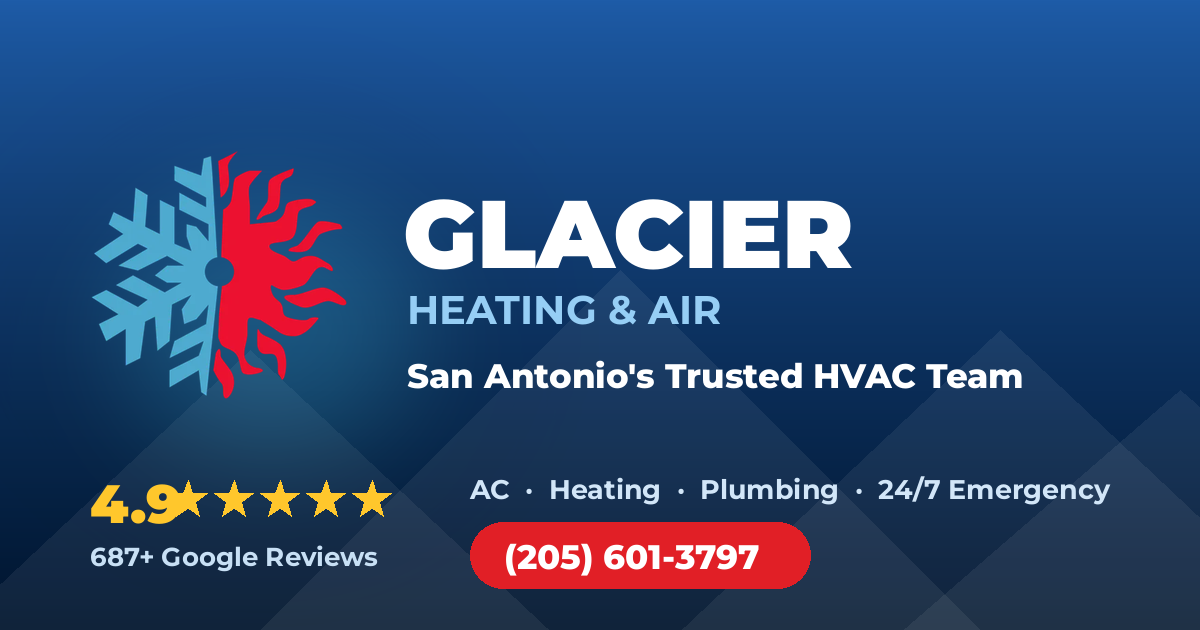
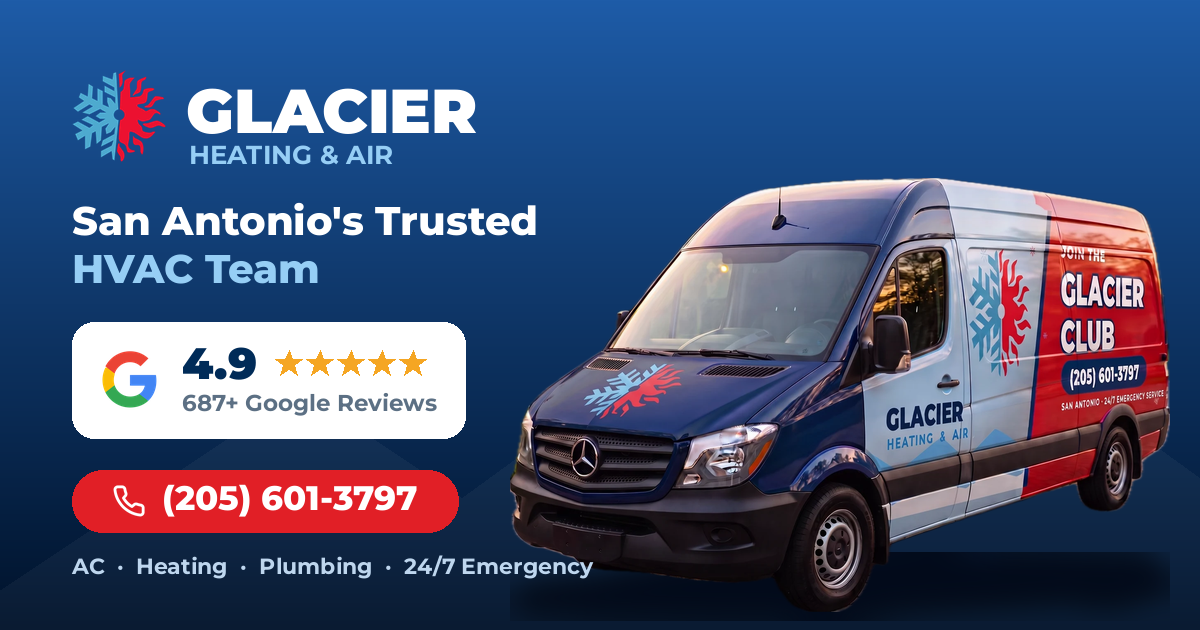
Redesign OG share card: van hero, real Google G badge, aligned layout
Replace the crooked rating strip with a proper white Google-review badge
(rasterized 4-color G + 4.9 + gold stars + review count), add the photoreal
wrapped van as the hero with a soft ground shadow, crisp brand wordmark,
tagline, phone pill with real phone icon, and services line — all on a
consistent left margin for a clean, agency-grade share preview.

diff --git a/glacier-site/scratchpad/googleg.html b/glacier-site/scratchpad/googleg.html
@@ -1,0 +1,7 @@
+<!doctype html><html><head><style>html,body{margin:0;background:transparent}</style></head>
+<body><svg id="g" width="400" height="400" viewBox="0 0 48 48" xmlns="http://www.w3.org/2000/svg">
+<path fill="#4285F4" d="M45.12 24.5c0-1.56-.14-3.06-.4-4.5H24v8.51h11.84c-.51 2.75-2.06 5.08-4.39 6.64v5.52h7.11c4.16-3.83 6.56-9.47 6.56-16.17z"/>
+<path fill="#34A853" d="M24 46c5.94 0 10.92-1.97 14.56-5.33l-7.11-5.52c-1.97 1.32-4.49 2.1-7.45 2.1-5.73 0-10.58-3.87-12.31-9.07H4.34v5.7C7.96 41.07 15.4 46 24 46z"/>
+<path fill="#FBBC05" d="M11.69 28.18C11.25 26.86 11 25.45 11 24s.25-2.86.69-4.18v-5.7H4.34C2.85 17.09 2 20.45 2 24s.85 6.91 2.34 9.88l7.35-5.7z"/>
+<path fill="#EA4335" d="M24 9.75c3.23 0 6.13 1.11 8.41 3.29l6.31-6.31C34.91 3.18 29.93 1 24 1 15.4 1 7.96 5.93 4.34 13.12l7.35 5.7C13.42 13.62 18.27 9.75 24 9.75z"/>
+</svg></body></html>

diff --git a/glacier-site/scratchpad/phone.html b/glacier-site/scratchpad/phone.html
@@ -1,0 +1,4 @@
+<!doctype html><html><head><style>html,body{margin:0;background:transparent}</style></head>
+<body><svg id="p" width="240" height="240" viewBox="0 0 24 24" fill="none" stroke="#ffffff" stroke-width="2" stroke-linecap="round" stroke-linejoin="round" xmlns="http://www.w3.org/2000/svg">
+<path d="M22 16.9v3a2 2 0 0 1-2.2 2 19.8 19.8 0 0 1-8.6-3.1 19.5 19.5 0 0 1-6-6 19.8 19.8 0 0 1-3.1-8.7A2 2 0 0 1 4.1 2h3a2 2 0 0 1 2 1.7c.1.9.4 1.8.7 2.7a2 2 0 0 1-.5 2.1L8.1 9.9a16 16 0 0 0 6 6l1.4-1.2a2 2 0 0 1 2.1-.5c.9.3 1.8.6 2.7.7a2 2 0 0 1 1.7 2z"/>
+</svg></body></html>

diff --git a/glacier-site/scratchpad/make_og.py b/glacier-site/scratchpad/make_og.py
@@ -1,79 +1,109 @@
-from PIL import Image, ImageDraw, ImageFont
+from PIL import Image, ImageDraw, ImageFont, ImageFilter
 import math
 
 W, H = 1200, 630
 FT = "/tmp/mfonts"
 def f(name, sz): return ImageFont.truetype(f"{FT}/Montserrat-{name}.ttf", sz)
 
-# --- vertical navy gradient background (ice-500-ish top -> deep navy bottom)
-top = (30, 92, 168)     # icy blue
-bot = (0, 20, 45)       # deep navy
-img = Image.new("RGB", (W, H), bot)
-px = img.load()
+# ---------- background: smooth icy-navy gradient ----------
+top = (30, 92, 168); bot = (0, 18, 42)
+img = Image.new("RGB", (W, H), bot); px = img.load()
 for y in range(H):
-    t = y / (H - 1)
-    # ease toward navy
-    e = t ** 0.85
-    r = int(top[0] + (bot[0]-top[0]) * e)
-    g = int(top[1] + (bot[1]-top[1]) * e)
-    b = int(top[2] + (bot[2]-top[2]) * e)
-    for x in range(W):
-        px[x, y] = (r, g, b)
+    t = (y/(H-1)) ** 0.95
+    row = tuple(int(top[i]+(bot[i]-top[i])*t) for i in range(3))
+    for x in range(W): px[x, y] = row
+img = img.convert("RGBA")
 
+# very faint mountain silhouettes (subtle, one soft layer)
+mt = Image.new("RGBA", (W, H), (0,0,0,0)); dm = ImageDraw.Draw(mt)
+for (cx, w, h) in [(300,360,240),(720,440,320),(1050,360,260)]:
+    dm.polygon([(cx-w, H), (cx, H-h), (cx+w, H)], fill=(255,255,255,10))
+img = Image.alpha_composite(img, mt)
 d = ImageDraw.Draw(img, "RGBA")
 
-# --- faint mountain silhouettes (brand motif)
-def mtn(cx, base, w, h, col):
-    d.polygon([(cx-w, base), (cx, base-h), (cx+w, base)], fill=col)
-for (cx, w, h) in [(250, 320, 300), (620, 380, 380), (1000, 340, 320), (1180, 300, 260)]:
-    mtn(cx, H+20, w, h, (255, 255, 255, 16))
+def text_vc(x, cy, text, font, fill):
+    bb = d.textbbox((0,0), text, font=font); h = bb[3]-bb[1]
+    d.text((x, cy - h/2 - bb[1]), text, font=font, fill=fill)
+    return bb[2]-bb[0]
+def star(cx, cy, r, fill):
+    pts=[]
+    for i in range(10):
+        a=-math.pi/2+i*math.pi/5; rad=r if i%2==0 else r*0.42
+        pts.append((cx+rad*math.cos(a), cy+rad*math.sin(a)))
+    d.polygon(pts, fill=fill)
 
-# --- soft turquoise glow behind logo
-glow = Image.new("RGBA", (W, H), (0,0,0,0))
-gd = ImageDraw.Draw(glow)
-gd.ellipse([70, 150, 470, 500], fill=(72, 202, 228, 60))
-glow = glow.filter(__import__("PIL.ImageFilter", fromlist=["GaussianBlur"]).GaussianBlur(70))
-img = Image.alpha_composite(img.convert("RGBA"), glow)
+MARGIN = 72
+
+# ---------- VAN hero (right), bottom-anchored with soft shadow ----------
+van = Image.open("public/van.webp").convert("RGBA")
+vw = 660; vh = int(van.height*vw/van.width)
+van = van.resize((vw, vh), Image.LANCZOS)
+vx = W - vw - 30; vy = H - vh - 18
+# ground shadow from van alpha
+sh = Image.new("RGBA", van.size, (0,0,0,0))
+sh.paste((2,10,26,255), (0,0), van.getchannel("A"))
+sh = sh.resize((vw, int(vh*0.16)), Image.LANCZOS).filter(ImageFilter.GaussianBlur(12))
+img.alpha_composite(sh, (vx, vy+vh-int(vh*0.14)))
+img.alpha_composite(van, (vx, vy))
 d = ImageDraw.Draw(img, "RGBA")
 
-# --- logo mark (left)
+# ---------- LEFT column: brand + rating + CTA ----------
+# logo mark + wordmark
 mark = Image.open("public/logo-mark.png").convert("RGBA")
-mh = 250
-mw = int(mark.width * mh / mark.height)
+mh = 92; mw = int(mark.width*mh/mark.height)
 mark = mark.resize((mw, mh), Image.LANCZOS)
-my = (H - mh)//2 - 40
-img.alpha_composite(mark, (90, my))
-
-# --- text block (right of mark)
-tx = 90 + mw + 55
-# GLACIER wordmark
-d.text((tx, 175), "GLACIER", font=f("Black", 96), fill=(255,255,255))
-d.text((tx+4, 285), "HEATING & AIR", font=f("Bold", 40), fill=(150, 206, 245))
+img.alpha_composite(mark, (MARGIN, 70))
+d = ImageDraw.Draw(img, "RGBA")
+wx = MARGIN + mw + 20
+d.text((wx, 72), "GLACIER", font=f("Black", 62), fill=(255,255,255))
+d.text((wx+3, 138), "HEATING & AIR", font=f("Bold", 26), fill=(150,206,245))
 
 # tagline
-d.text((tx+4, 355), "San Antonio's Trusted HVAC Team", font=f("ExtraBold", 34), fill=(255,255,255))
+d.text((MARGIN, 196), "San Antonio's Trusted", font=f("ExtraBold", 40), fill=(255,255,255))
+d.text((MARGIN, 244), "HVAC Team", font=f("ExtraBold", 40), fill=(150,206,245))
 
-# --- bottom bar: rating + services + phone
-by = 470
-def star(cx, cy, r, fill):
-    pts = []
-    for i in range(10):
-        ang = -math.pi/2 + i * math.pi/5
-        rad = r if i % 2 == 0 else r*0.42
-        pts.append((cx + rad*math.cos(ang), cy + rad*math.sin(ang)))
-    d.polygon(pts, fill=fill)
-d.text((90, by), "4.9", font=f("Black", 54), fill=(255, 199, 44))
-sx = 188
-for i in range(5):
-    star(sx + i*46, by+30, 20, (255, 199, 44))
-d.text((90, by+70), "687+ Google Reviews", font=f("Bold", 26), fill=(200, 224, 245))
+# Google review badge (white pill)
+gg = Image.open("scratchpad/googleg.png").convert("RGBA")
+py0 = 322; pill_h = 116; gsize = 60; pad = 28
+num_font = f("Black", 44); rev_font = f("Bold", 23)
+nb = d.textbbox((0,0),"4.9",font=num_font); num_w = nb[2]-nb[0]
+star_r = 14; star_gap = 31; stars_w = star_gap*4 + star_r
+row1_w = num_w + 18 + stars_w
+rb = d.textbbox((0,0),"687+ Google Reviews",font=rev_font); rev_w = rb[2]-rb[0]
+col_w = max(row1_w, rev_w)
+pill_w = pad + gsize + 22 + col_w + pad
+d.rounded_rectangle([MARGIN, py0, MARGIN+pill_w, py0+pill_h], radius=22, fill=(255,255,255,255))
+g_cy = py0 + pill_h//2
+img.alpha_composite(gg.resize((gsize,gsize), Image.LANCZOS), (MARGIN+pad, g_cy-gsize//2))
+d = ImageDraw.Draw(img, "RGBA")
+colx = MARGIN + pad + gsize + 22
+r1 = py0 + 42; r2 = py0 + 82
+w49 = text_vc(colx, r1, "4.9", num_font, (0,43,88,255))
+sx = colx + w49 + 18 + star_r
+for i in range(5): star(sx + i*star_gap, r1, star_r, (245,166,35,255))
+text_vc(colx, r2, "687+ Google Reviews", rev_font, (92,112,132,255))
 
-# services line
-d.text((470, by+2), "AC  ·  Heating  ·  Plumbing  ·  24/7 Emergency", font=f("Bold", 27), fill=(210, 230, 248))
-# phone in red pill
-pill = (470, by+52, 470+340, by+52+66)
-d.rounded_rectangle(pill, radius=33, fill=(225, 31, 38))
-d.text((470+34, by+66), "(205) 601-3797", font=f("ExtraBold", 34), fill=(255,255,255))
+# CTA: red phone pill with a rasterized phone icon + centered number
+ph_font = f("ExtraBold", 34); ph_txt = "(205) 601-3797"
+pb = d.textbbox((0,0), ph_txt, font=ph_font); ph_w = pb[2]-pb[0]
+gap_icon = 16
+try:
+    phicon = Image.open("scratchpad/phone.png").convert("RGBA")
+    isz = 34; phicon = phicon.resize((isz, isz), Image.LANCZOS)
+except Exception:
+    phicon = None; isz = 0; gap_icon = 0
+content_w = (isz + gap_icon if phicon else 0) + ph_w
+p2x, p2y = MARGIN, 470; sidepad = 40; p2w = sidepad*2 + content_w; p2h = 62
+d.rounded_rectangle([p2x, p2y, p2x+p2w, p2y+p2h], radius=31, fill=(225,31,38,255))
+gy = p2y + p2h//2
+cx = p2x + sidepad
+if phicon:
+    img.alpha_composite(phicon, (cx, gy - isz//2)); d = ImageDraw.Draw(img, "RGBA")
+    cx += isz + gap_icon
+text_vc(cx, gy, ph_txt, ph_font, (255,255,255,255))
+
+d.text((MARGIN, 552), "AC  ·  Heating  ·  Plumbing  ·  24/7 Emergency",
+       font=f("Bold", 22), fill=(190,214,238,255))
 
 img.convert("RGB").save("public/og.png", "PNG", optimize=True)
-print("wrote public/og.png", img.size)
+print("saved", img.size)
